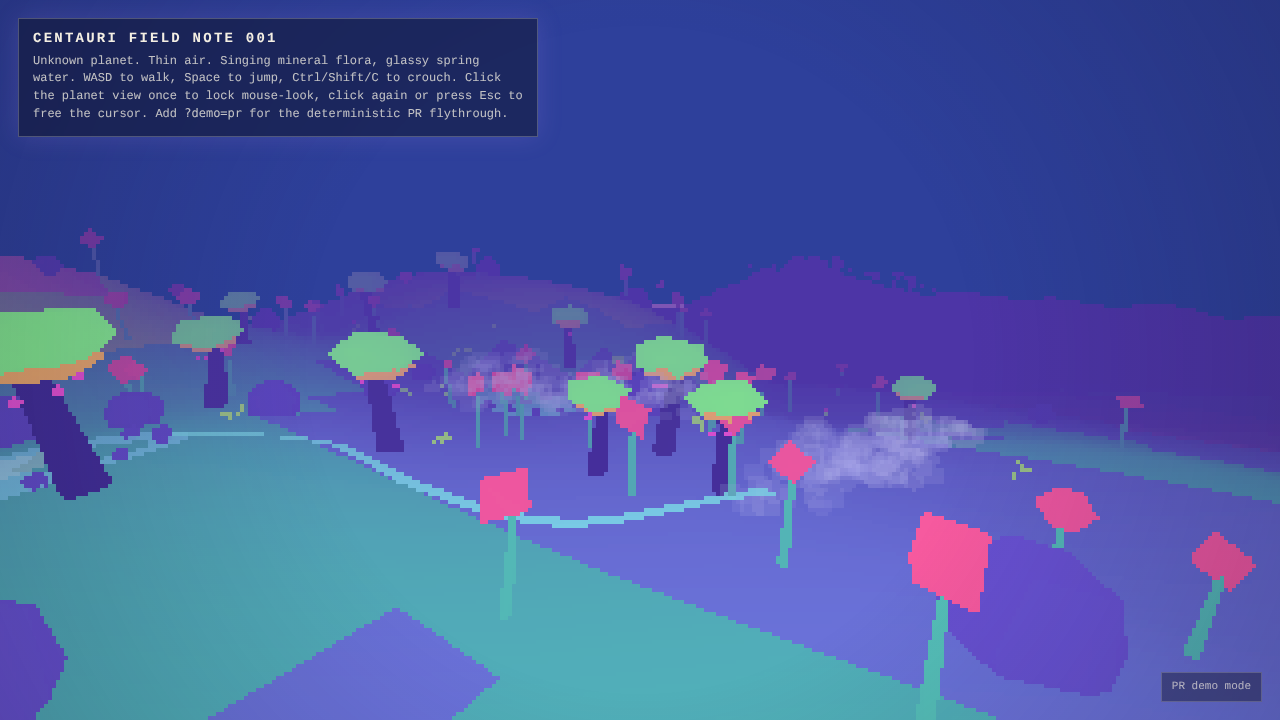
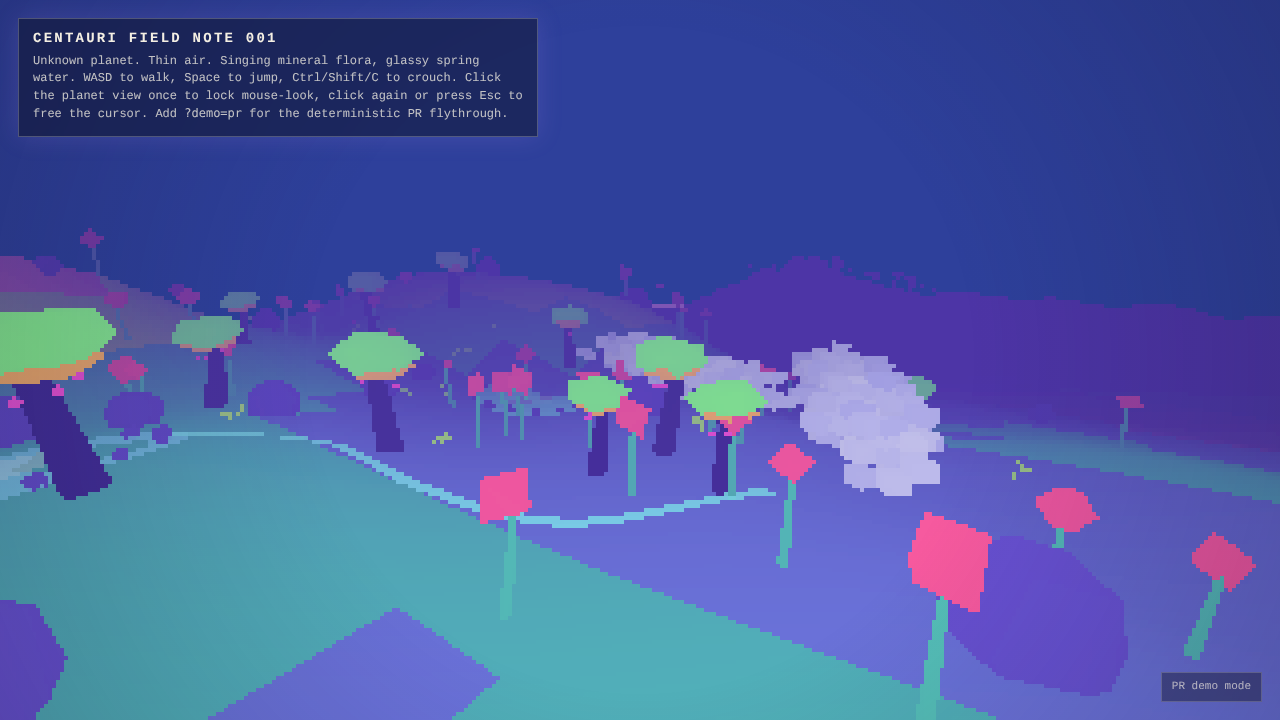
Make voxel mist matte and cohesive

Changed region(s): [[0.3438, 0.4583, 0.7812, 0.7028]]

diff --git a/src/mist.ts b/src/mist.ts
@@ -5,13 +5,12 @@ type HeightSampler = (x: number, z: number) => number;
 
 type MistCell = {
   mesh: THREE.Mesh<THREE.BoxGeometry, THREE.MeshBasicMaterial>;
-  opacityWeight: number;
   lightnessShift: number;
 };
 
 type MistPuff = {
   cells: MistCell[];
-  opacityWeight: number;
+  toneWeight: number;
 };
 
 type MistPatch = {
@@ -125,10 +124,10 @@ export function createMistSystem(scene: THREE.Scene, heightAt: HeightSampler, is
           new THREE.Euler(0, patch.driftAngle + Math.sin(elapsed * 0.07 + patch.phase) * 0.08, 0)
         );
 
-        patch.puffs.forEach(({ cells, opacityWeight }) => {
+        patch.puffs.forEach(({ cells, toneWeight }) => {
           cells.forEach((cell) => {
-            cell.mesh.material.color.copy(activeColour).offsetHSL(0, -0.04, cell.lightnessShift);
-            cell.mesh.material.opacity = distanceFade * patchPulse * opacityWeight * cell.opacityWeight * THREE.MathUtils.lerp(0.5, 0.62, dayAmount);
+            cell.mesh.material.color.copy(activeColour).offsetHSL(0, -0.16, cell.lightnessShift + toneWeight * 0.04);
+            cell.mesh.visible = distanceFade * patchPulse > 0.08;
           });
         });
       });
@@ -148,7 +147,7 @@ function makeMistPatch(baseX: number, baseZ: number, random: () => number, valle
     const center = new THREE.Vector3(Math.cos(angle) * distance, 0.45 + random() * 0.75, Math.sin(angle) * distance * 0.38);
     const cells = makeMistVoxelPuff(random, center, radius, isDemo);
     cells.forEach((cell) => group.add(cell.mesh));
-    puffs.push({ cells, opacityWeight: isDemo ? 0.34 + random() * 0.1 : 0.22 + random() * 0.09 });
+    puffs.push({ cells, toneWeight: isDemo ? 0.34 + random() * 0.1 : 0.22 + random() * 0.09 });
   }
 
   return {
@@ -165,34 +164,35 @@ function makeMistPatch(baseX: number, baseZ: number, random: () => number, valle
 }
 
 function makeMistVoxelPuff(random: () => number, center: THREE.Vector3, radius: number, isDemo: boolean): MistCell[] {
-  const cellCount = isDemo ? 64 : 36 + Math.floor(random() * 20);
+  const cellCount = isDemo ? 80 : 48 + Math.floor(random() * 28);
   const noiseSeed = random() * 10_000;
   const cells: MistCell[] = [];
+  const occupied = new Set<string>();
+  const cellSize = radius * (0.095 + random() * 0.025);
 
-  for (let i = 0; i < cellCount; i += 1) {
-    const sample = sampleMistVolume(random, noiseSeed);
+  for (let attempt = 0; cells.length < cellCount && attempt < cellCount * 60; attempt += 1) {
+    const sample = quantizedMistSample(random, noiseSeed);
     const point = sample.point;
+    const key = `${sample.grid.x}:${sample.grid.y}:${sample.grid.z}`;
+    if (occupied.has(key)) continue;
+    occupied.add(key);
     const localX = center.x + point.x * radius * 1.08;
     const localZ = center.z + point.z * radius * 0.48;
     const localY = center.y + point.y * radius * 0.32 + Math.max(0, 1 - Math.abs(point.x)) * radius * 0.08;
-    const cellSize = radius * (0.05 + random() * 0.045);
     const cell = new THREE.Mesh(
       mistCellGeometry,
       new THREE.MeshBasicMaterial({
         color: dayMistColour,
-        transparent: true,
-        opacity: 0,
+        transparent: false,
         depthTest: true,
-        depthWrite: false,
       })
     );
     cell.position.set(localX, localY, localZ);
-    cell.scale.set(cellSize * (1.2 + random() * 0.9), cellSize * (0.62 + random() * 0.5), cellSize * (0.95 + random() * 0.85));
+    cell.scale.set(cellSize * (0.9 + random() * 0.34), cellSize * (0.58 + random() * 0.22), cellSize * (0.78 + random() * 0.28));
     cell.rotation.set(random() * 0.18 - 0.09, random() * Math.PI * 2, random() * 0.14 - 0.07);
     cells.push({
       mesh: cell,
-      opacityWeight: 0.42 + sample.density * 0.45 + random() * 0.1,
-      lightnessShift: random() * 0.12 - 0.04,
+      lightnessShift: sample.density * 0.1 + random() * 0.06 - 0.08,
     });
   }
 
@@ -207,6 +207,21 @@ function sampleMistVolume(random: () => number, seed: number): { point: THREE.Ve
   }
   const point = new THREE.Vector3(centerBiased(random) * 0.52, centerBiased(random) * 0.36, centerBiased(random) * 0.44);
   return { point, density: mistDensityAt(point, seed) };
+}
+
+function quantizedMistSample(
+  random: () => number,
+  seed: number
+): { point: THREE.Vector3; grid: { x: number; y: number; z: number }; density: number } {
+  const sample = sampleMistVolume(random, seed);
+  const grid = {
+    x: Math.round(sample.point.x * 7),
+    y: Math.round(sample.point.y * 5),
+    z: Math.round(sample.point.z * 5),
+  };
+  const point = new THREE.Vector3(grid.x / 7, grid.y / 5, grid.z / 5);
+  const density = mistDensityAt(point, seed);
+  return { point, grid, density };
 }
 
 function centerBiased(random: () => number): number {

diff --git a/GAME_DIARY.md b/GAME_DIARY.md
@@ -8,6 +8,8 @@ Reworked the mist after review into sparse semi-transparent voxel cloudlets, kee
 
 Retuned the voxel mist from a few large cuboids into many smaller cells sampled from a simple seeded density/noise volume, so the cloud reads as granular low-res mist instead of chunky blocks.
 
+Changed the voxel mist cells from translucent glassy cubes to grid-quantized matte pastel chunks, making each patch read as one pixel-cloud mass with small block details.
+
 Anchored the softened mist patches in planet space by removing camera-facing billboard rotation and keeping their orientation coherent with local surface placement and drift direction.
 
 ## 2026-06-19